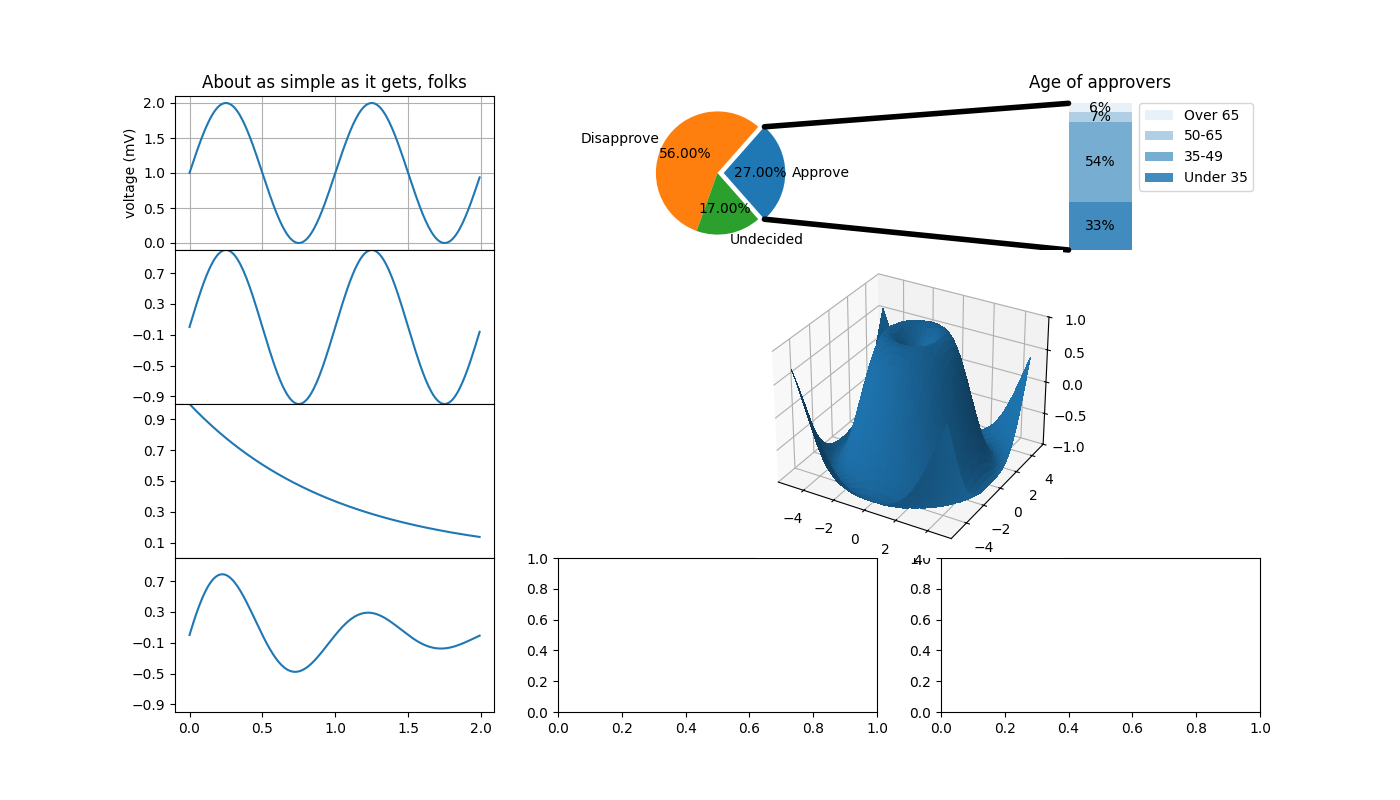
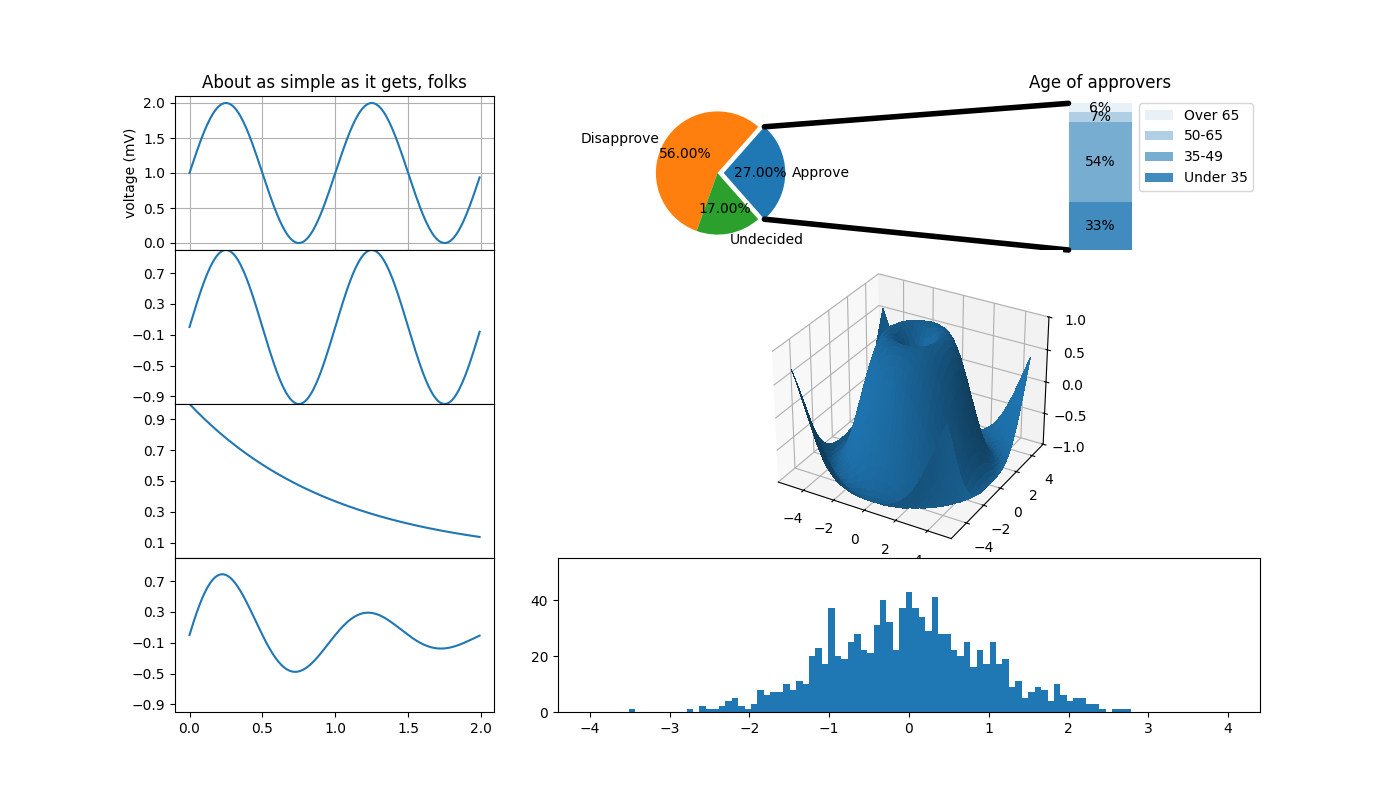
matplotlib Animated histogram added and finished

diff --git a/plotlib2.py b/plotlib2.py
@@ -1,8 +1,8 @@
 import matplotlib.pyplot as plt
 import numpy as np
-
+import functools
 from matplotlib.patches import ConnectionPatch
-
+import matplotlib.animation as animation
 # make figure and assign axis objects
 fig, axs = plt.subplots(4, 3, figsize=(14, 8))
 print(fig)
@@ -116,6 +116,42 @@ Z = np.sin(R)
 surf = axbig.plot_surface(X, Y, Z, rstride=1, cstride=1,
                        linewidth=0, antialiased=False)
 axbig.set_zlim(-1, 1)
+
+gs = axs[3, 1].get_gridspec()
+for ax in axs[3:, 1:].flatten():
+    ax.remove()
+axbig2 = fig.add_subplot(gs[3:, 1:])
+
+# Setting up a random number generator with a fixed state for reproducibility.
+rng = np.random.default_rng(seed=19680801)
+# print(rng)
+# Fixing bin edges.
+HIST_BINS = np.linspace(-4, 4, 100)
+# print(HIST_BINS)
+# Histogram our data with numpy.
+data = rng.standard_normal(1000)
+# n, _ = np.histogram(data, HIST_BINS)
+# print(data)
+# print(n)
+# print(sum(n))
+def animate(frame_number, bar_container):
+    # Simulate new data coming in.
+    data = rng.standard_normal(1000)
+    n, _ = np.histogram(data, HIST_BINS)
+    # print(*zip(n, bar_container.patches))
+    for count, rect in zip(n, bar_container.patches):
+        rect.set_height(count)
+
+    return bar_container.patches
+
+# Output generated via `matplotlib.animation.Animation.to_jshtml`.
+_, _, bar_container = axbig2.hist(data, HIST_BINS, lw=1,
+                              ec="yellow", fc="green", alpha=1)
+# print(bar_container)
+axbig2.set_ylim(top=55)  # set safe limit to ensure that all data is visible.
+
+anim = functools.partial(animate, bar_container=bar_container)
+ani = animation.FuncAnimation(fig, anim, 50, repeat=True, blit=True)
 
 fig.subplots_adjust(hspace=0)
 # fig.tight_layout()

diff --git a/plotlib6.py b/plotlib6.py
@@ -7,17 +7,21 @@ import matplotlib.animation as animation
 
 # Setting up a random number generator with a fixed state for reproducibility.
 rng = np.random.default_rng(seed=19680801)
+# print(rng)
 # Fixing bin edges.
 HIST_BINS = np.linspace(-4, 4, 100)
-
+# print(HIST_BINS)
 # Histogram our data with numpy.
 data = rng.standard_normal(1000)
-n, _ = np.histogram(data, HIST_BINS)
-
+# n, _ = np.histogram(data, HIST_BINS)
+# print(data)
+# print(n)
+# print(sum(n))
 def animate(frame_number, bar_container):
     # Simulate new data coming in.
     data = rng.standard_normal(1000)
     n, _ = np.histogram(data, HIST_BINS)
+    # print(*zip(n, bar_container.patches))
     for count, rect in zip(n, bar_container.patches):
         rect.set_height(count)
 
@@ -27,9 +31,10 @@ def animate(frame_number, bar_container):
 
 fig, ax = plt.subplots()
 _, _, bar_container = ax.hist(data, HIST_BINS, lw=1,
-                              ec="yellow", fc="green", alpha=0.5)
+                              ec="yellow", fc="green", alpha=1)
+# print(bar_container)
 ax.set_ylim(top=55)  # set safe limit to ensure that all data is visible.
 
 anim = functools.partial(animate, bar_container=bar_container)
-ani = animation.FuncAnimation(fig, anim, 50, repeat=False, blit=True)
+ani = animation.FuncAnimation(fig, anim, 50, repeat=True, blit=True)
 plt.show()
